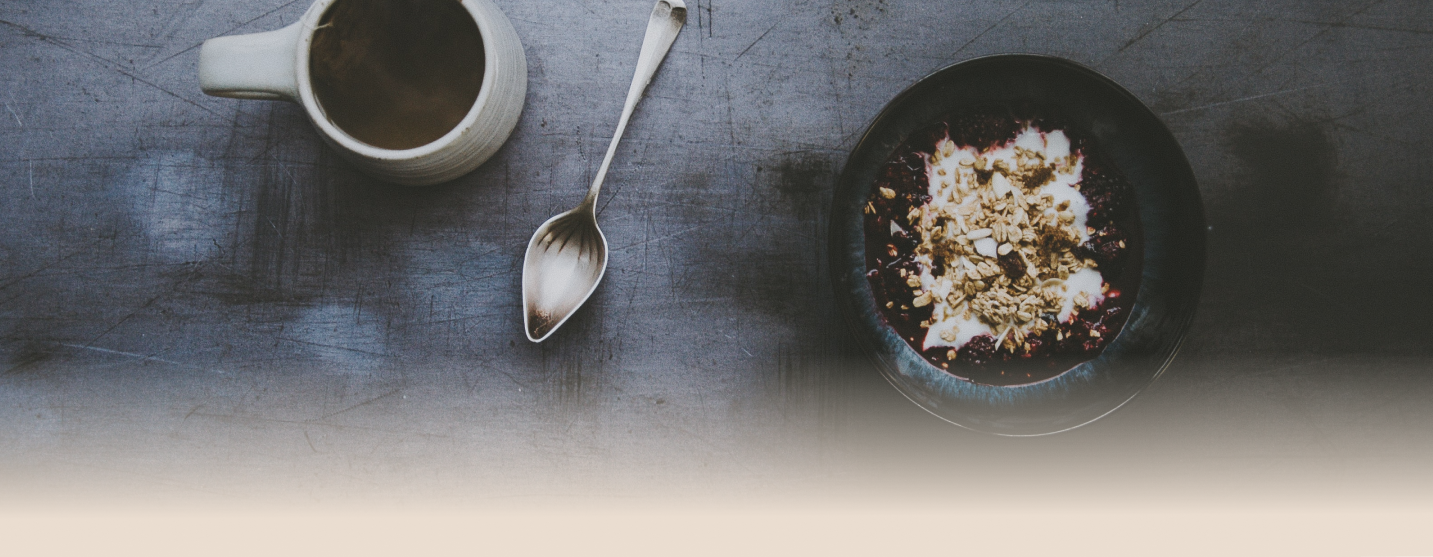
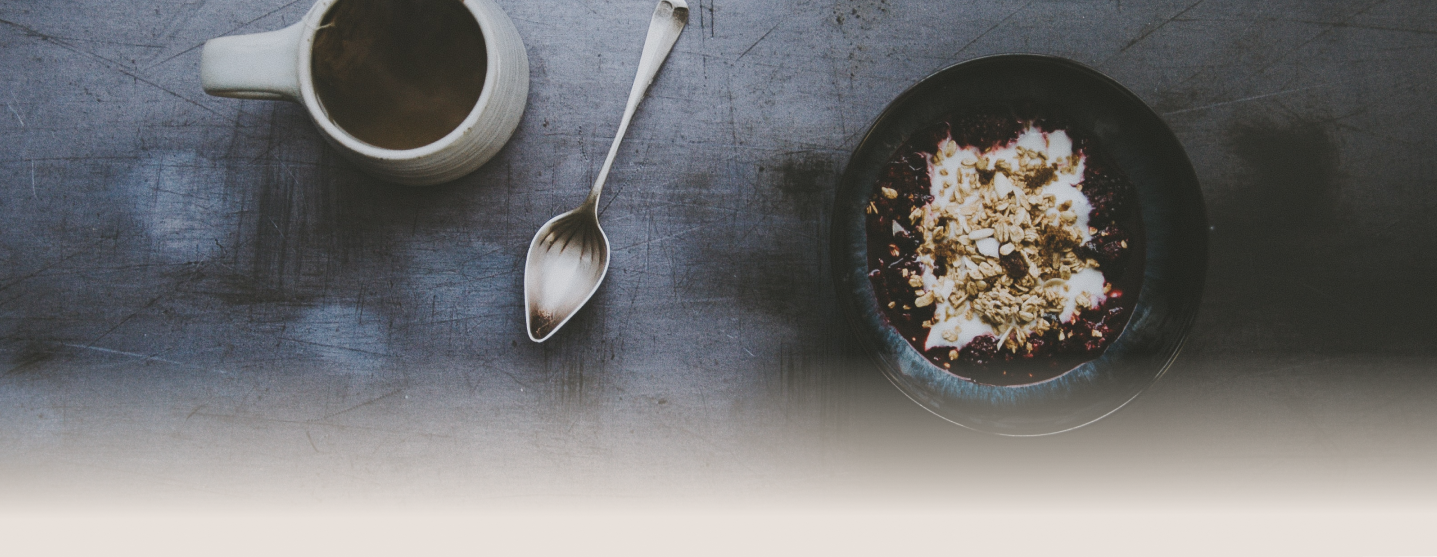
updated pics in home page

diff --git a/Grainjar-Website/Home-Page.html b/Grainjar-Website/Home-Page.html
@@ -192,8 +192,8 @@
               </div> <!--Closing recipes-preview-item-->
 
               <div class ="recipes-preview-item1">
-                <img src = "img/huh.jpg" alt= "Honey toast crunch bowl" width= "290">
-                <h4> Honey toast crunch bowl</h4>
+                <img src = "img/huh.png" alt= "Honey toast crunch bowl" width= "290">
+                <h4> Strawberry toast crunch bowl</h4>
                 <a class ="seconda-button" href ="Product-Detail.html"> Read more &rarr; </a>
               </div> <!--Closing recipes-preview-item1-->
 

diff --git a/Grainjar-Website/Product-Dessert.html b/Grainjar-Website/Product-Dessert.html
@@ -49,7 +49,7 @@
 
   </header>
 
-  <body style = "background-color:#EADDD0;">
+  <body style = "background-color:#E8E1DB;">
 
     <!-- Banner at the top of the About page -->
     <section id = "title-banner" class="product-banner">
